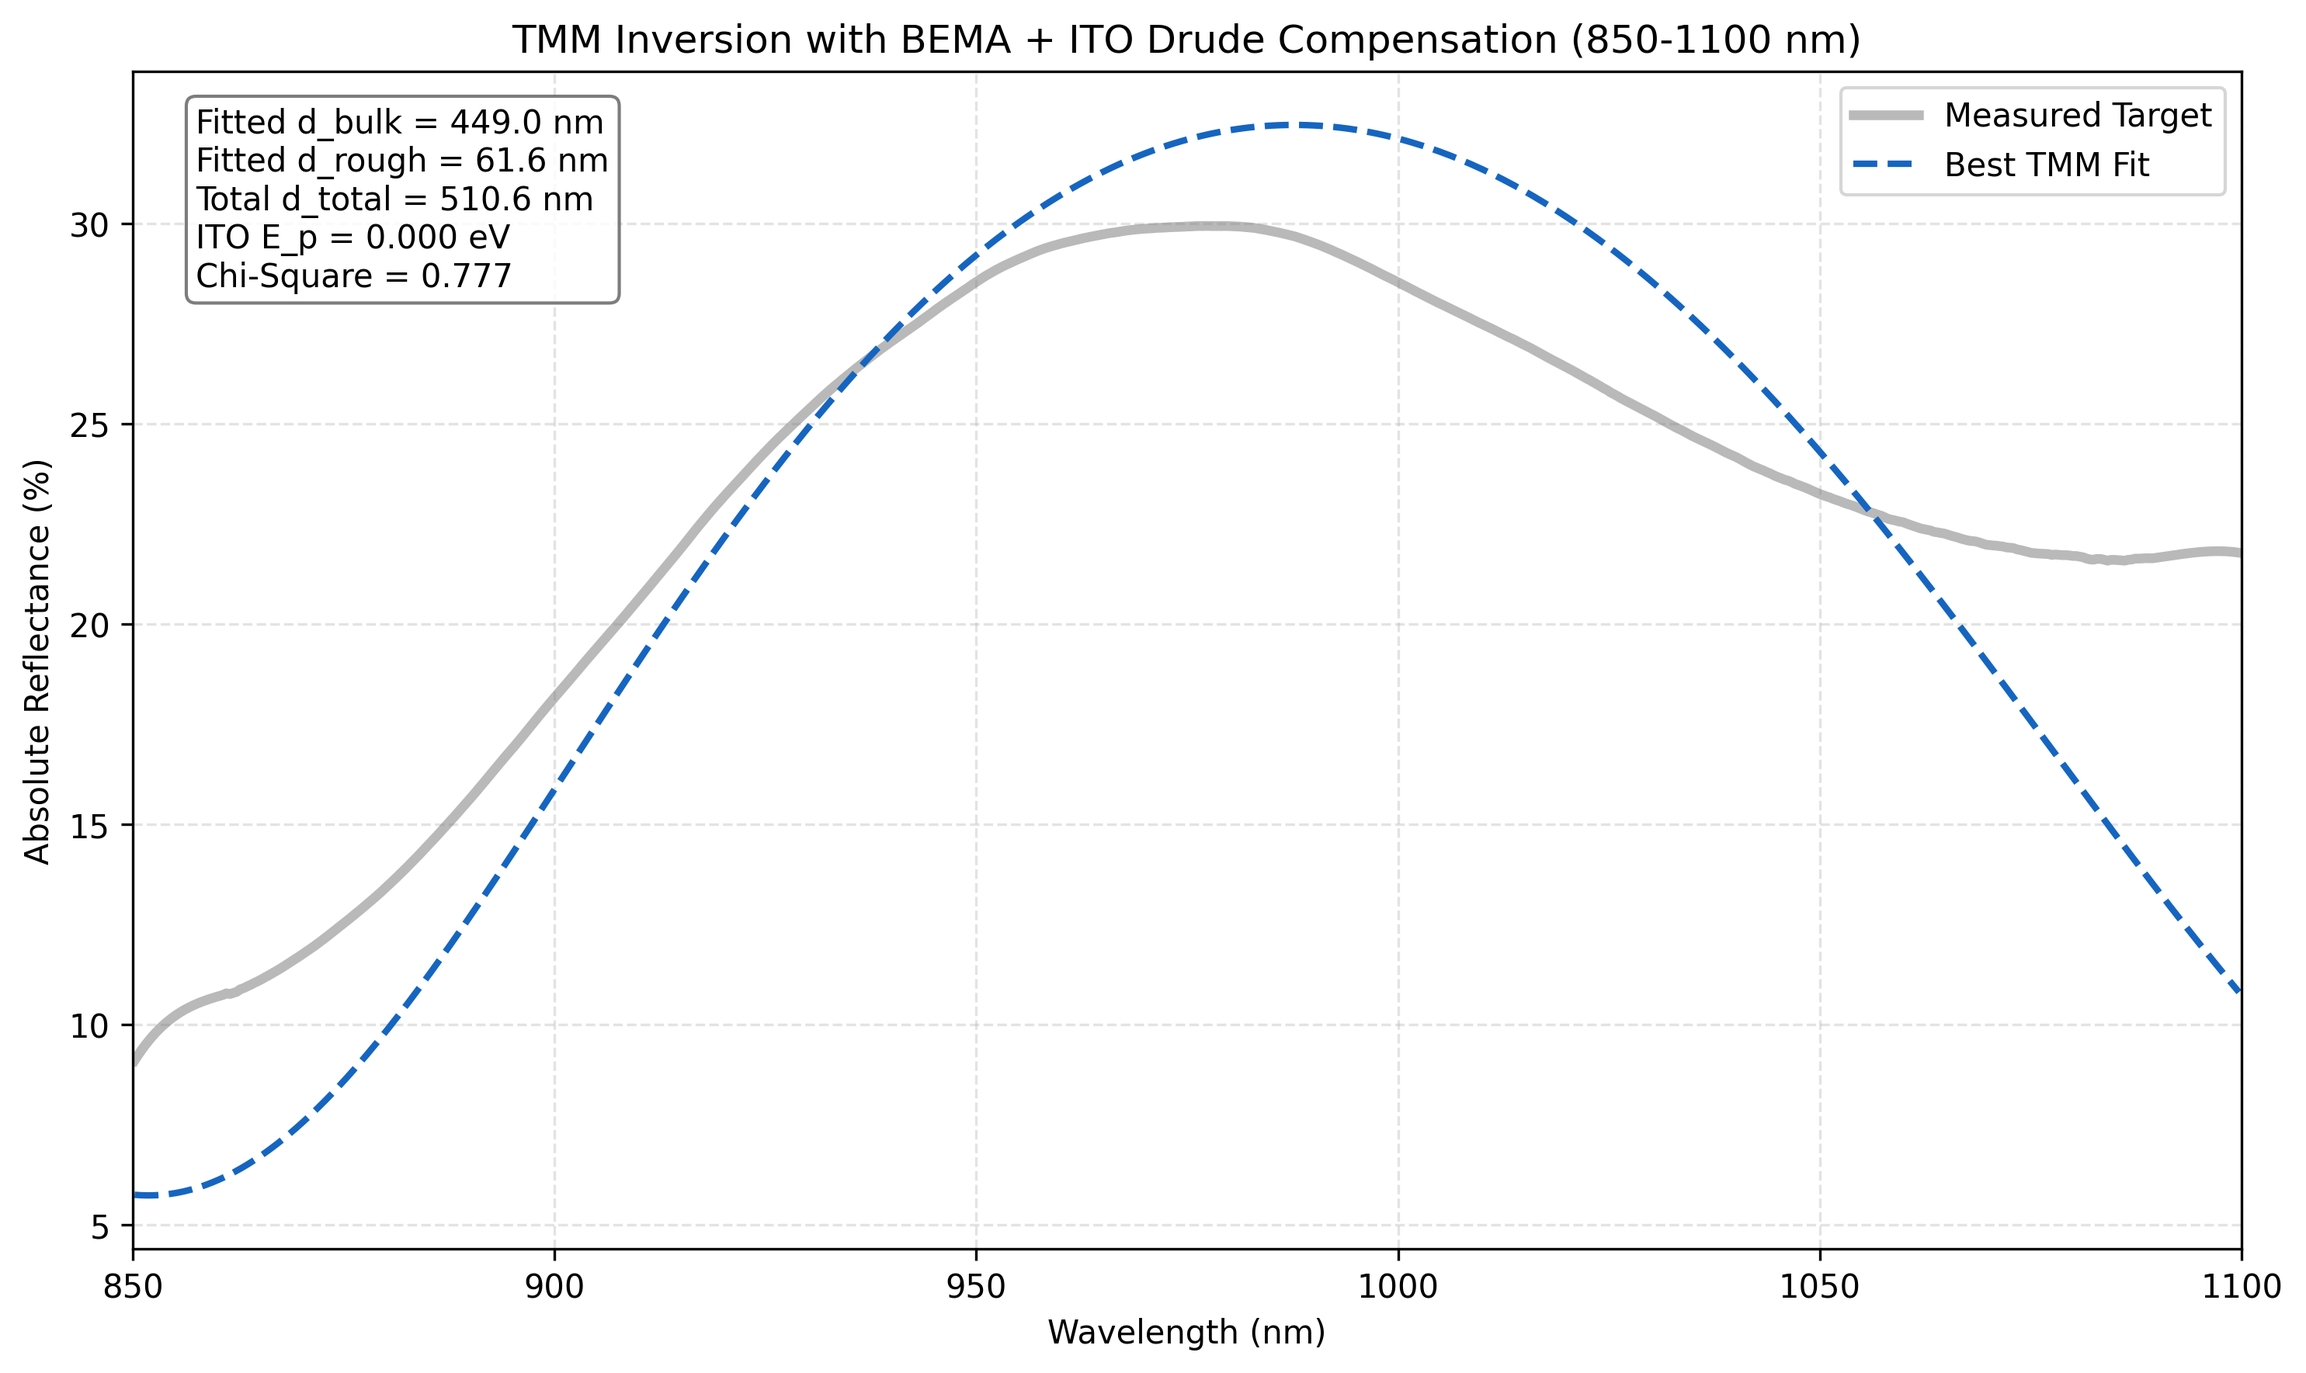
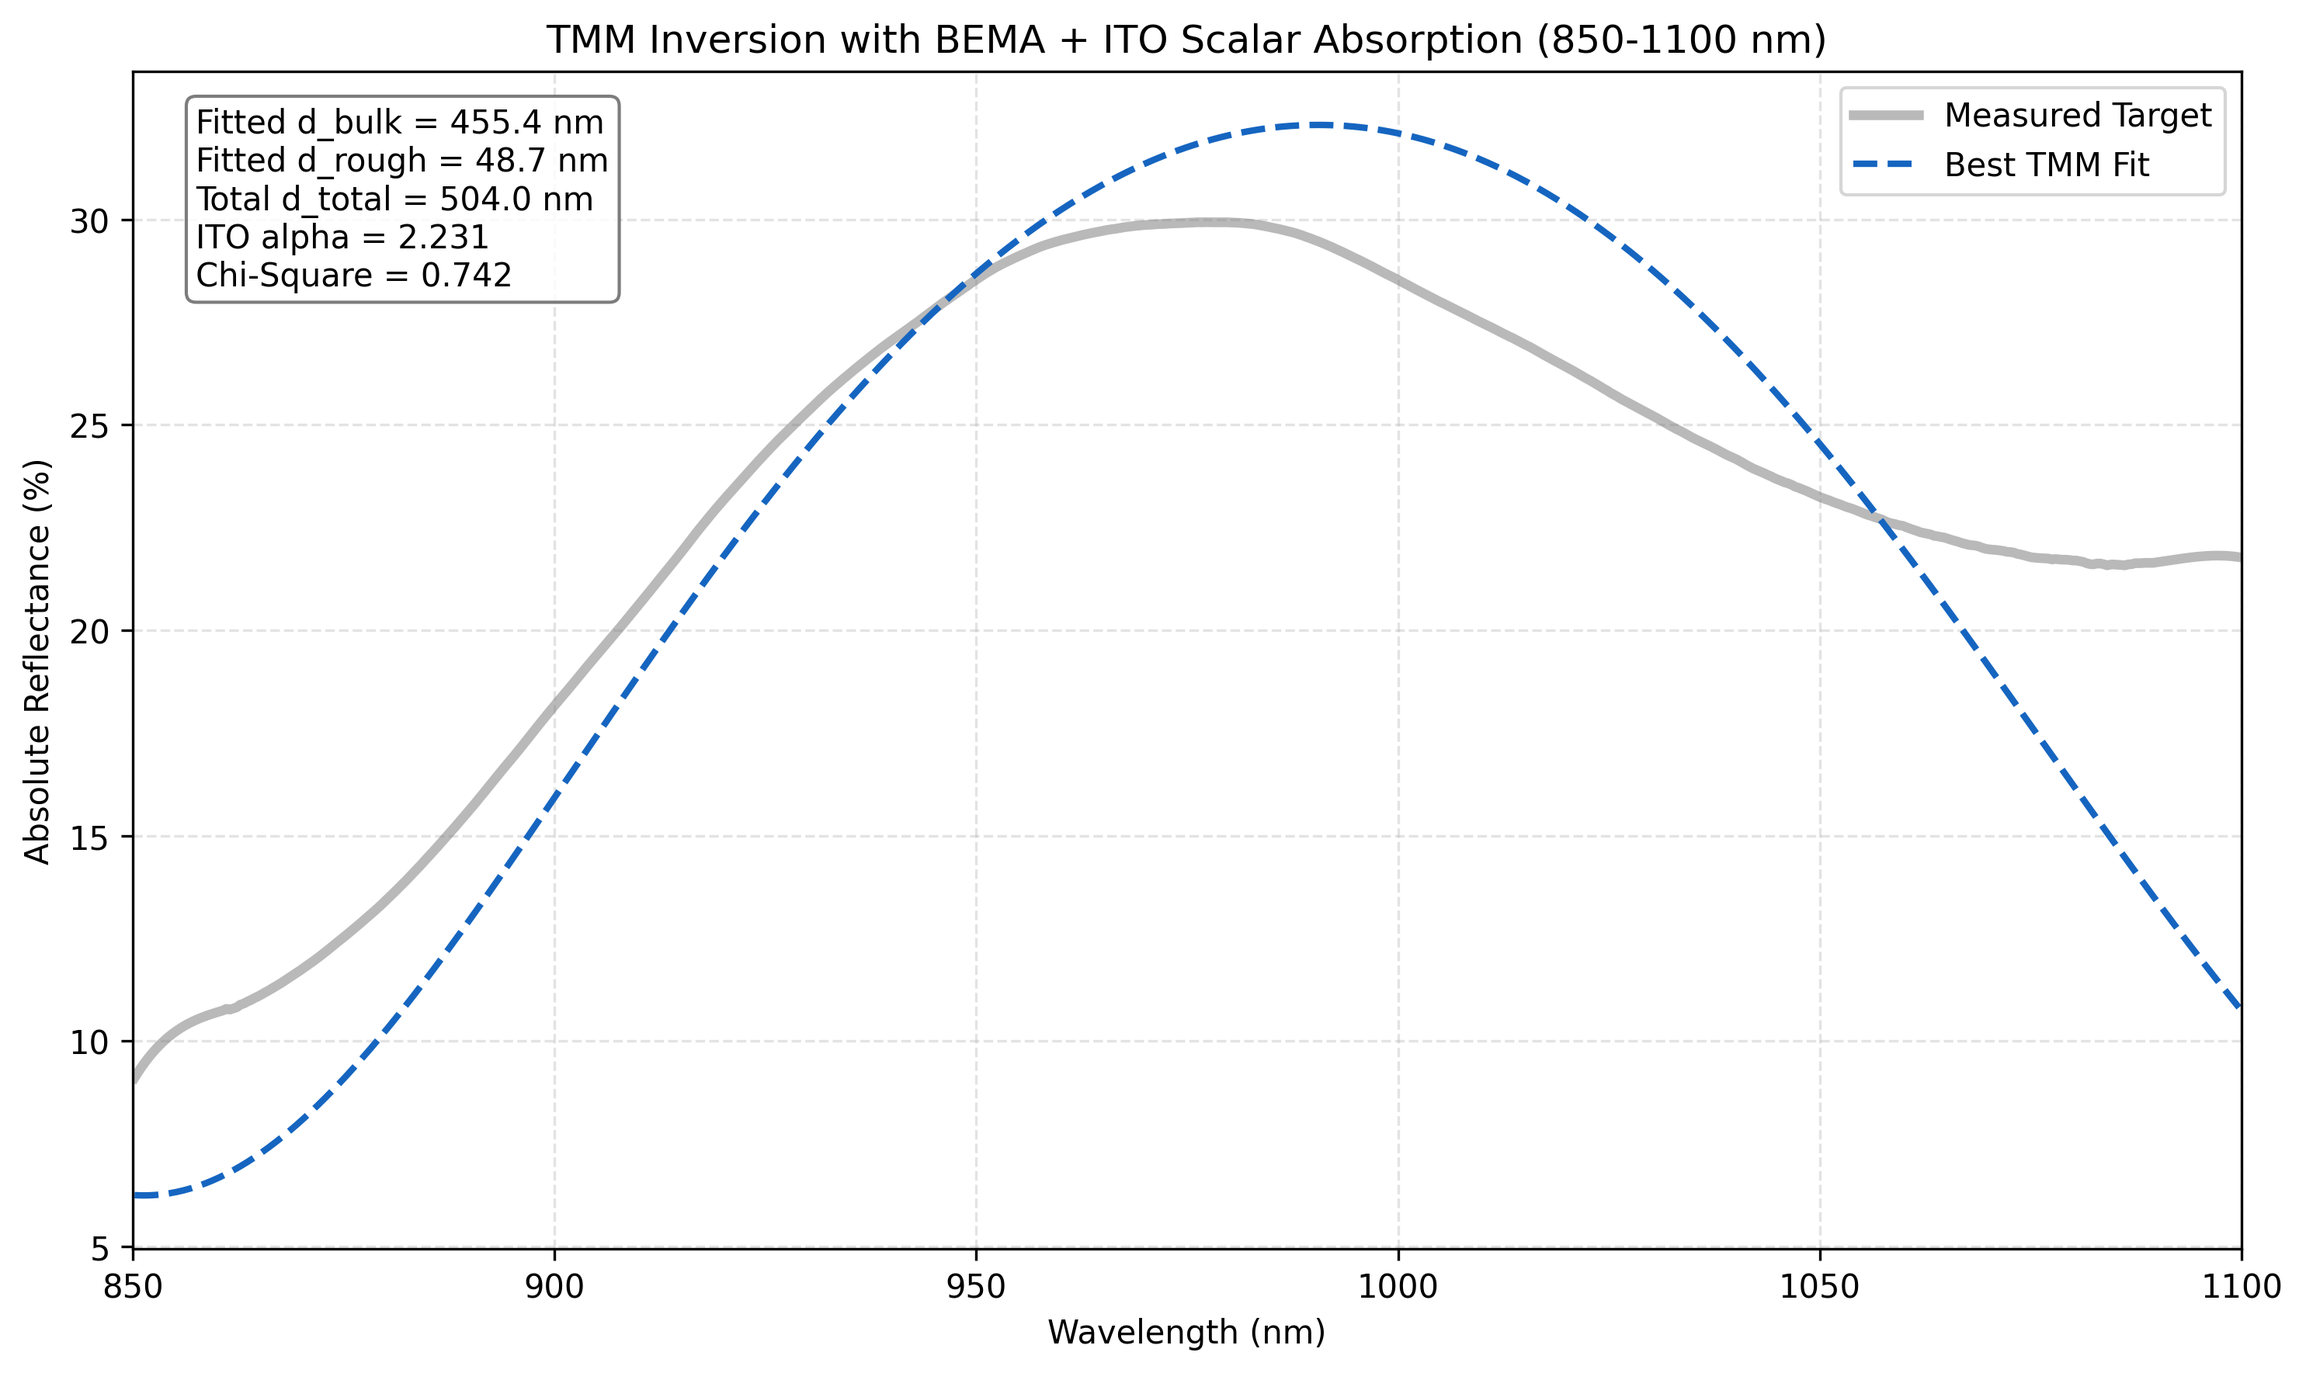
[Phase 02] 将ITO补偿重构为标量吸收三参数反演

diff --git a/src/scripts/step02_tmm_inversion.py b/src/scripts/step02_tmm_inversion.py
@@ -6,7 +6,7 @@
 模块划分：
 1. 目标曲线读取
 2. ITO 色散解析与插值
-3. ITO Drude 原位补偿
+3. ITO 标量吸收补偿
 4. PVK 外推 n-k 中间件加载与插值
 5. BEMA 表面粗糙度修正
 6. 厚玻璃非相干修正 + 相干薄膜 TMM
@@ -48,9 +48,9 @@ MAX_PVK_BULK_THICKNESS_NM = 650.0
 INITIAL_PVK_ROUGHNESS_THICKNESS_NM = 60.0
 MIN_PVK_ROUGHNESS_THICKNESS_NM = 0.0
 MAX_PVK_ROUGHNESS_THICKNESS_NM = 100.0
-INITIAL_ITO_EP_EV = 0.5
-MIN_ITO_EP_EV = 0.0
-MAX_ITO_EP_EV = 2.0
+INITIAL_ITO_ALPHA = 1.0
+MIN_ITO_ALPHA = 0.1
+MAX_ITO_ALPHA = 20.0
 
 
 def get_project_root() -> Path:
@@ -295,19 +295,10 @@ def build_ito_interpolator(wavelength_nm: np.ndarray, nk: np.ndarray) -> Callabl
     return get_ito_nk
 
 
-def apply_drude_correction(
-    base_nk: np.ndarray,
-    wavelength_nm: np.ndarray,
-    Ep: float,
-    Gamma: float = 0.1,
-) -> np.ndarray:
-    """对 ITO 基础复折射率施加原位 Drude 吸收补偿。"""
-    wavelength = np.asarray(wavelength_nm, dtype=np.float64)
-    energy_ev = 1240.0 / wavelength
-    epsilon_base = np.asarray(base_nk, dtype=np.complex128) ** 2
-    delta_epsilon = -(Ep**2) / (energy_ev**2 + 1j * Gamma * energy_ev)
-    epsilon_new = epsilon_base + delta_epsilon
-    return np.sqrt(epsilon_new)
+def apply_scalar_absorption_correction(base_nk: np.ndarray, alpha_ito: float) -> np.ndarray:
+    """锁定 ITO 实部 n，仅对虚部 k 施加标量放大。"""
+    base_nk_array = np.asarray(base_nk, dtype=np.complex128)
+    return np.real(base_nk_array) + 1j * (np.imag(base_nk_array) * alpha_ito)
 
 
 def load_pvk_dispersion(csv_path: Path) -> tuple[np.ndarray, np.ndarray, np.ndarray]:
@@ -371,7 +362,7 @@ def calc_bema_rough_nk(bulk_nk: np.ndarray) -> np.ndarray:
 def calc_macro_reflectance(
     d_bulk_nm: float,
     d_rough_nm: float,
-    ito_Ep: float,
+    alpha_ito: float,
     wavelength_nm: np.ndarray,
     get_ito_nk: Callable[[np.ndarray], np.ndarray],
     get_pvk_nk: Callable[[np.ndarray], np.ndarray],
@@ -394,7 +385,7 @@ def calc_macro_reflectance(
     """
     wavelength = np.asarray(wavelength_nm, dtype=float)
     ito_base_nk = get_ito_nk(wavelength)
-    ito_nk = apply_drude_correction(ito_base_nk, wavelength, ito_Ep)
+    ito_nk = apply_scalar_absorption_correction(ito_base_nk, alpha_ito)
     pvk_bulk_nk = get_pvk_nk(wavelength)
     pvk_rough_nk = calc_bema_rough_nk(pvk_bulk_nk)
 
@@ -437,8 +428,8 @@ def residual(
     """lmfit 残差函数。"""
     d_bulk_nm = params["d_bulk"].value
     d_rough_nm = params["d_rough"].value
-    ito_Ep = params["ito_Ep"].value
-    r_model = calc_macro_reflectance(d_bulk_nm, d_rough_nm, ito_Ep, wavelength_nm, get_ito_nk, get_pvk_nk)
+    alpha_ito = params["alpha_ito"].value
+    r_model = calc_macro_reflectance(d_bulk_nm, d_rough_nm, alpha_ito, wavelength_nm, get_ito_nk, get_pvk_nk)
     return r_model - r_target
 
 
@@ -449,7 +440,7 @@ def plot_fit_result(
     d_bulk_nm: float,
     d_rough_nm: float,
     d_total_nm: float,
-    ito_Ep: float,
+    alpha_ito: float,
     chisqr: float,
     output_path: Path,
 ) -> None:
@@ -477,7 +468,7 @@ def plot_fit_result(
         f"Fitted d_bulk = {d_bulk_nm:.1f} nm\n"
         f"Fitted d_rough = {d_rough_nm:.1f} nm\n"
         f"Total d_total = {d_total_nm:.1f} nm\n"
-        f"ITO E_p = {ito_Ep:.3f} eV\n"
+        f"ITO alpha = {alpha_ito:.3f}\n"
         f"Chi-Square = {chisqr:.3f}"
     )
     ax.text(
@@ -494,7 +485,7 @@ def plot_fit_result(
     ax.set_xlim(WAVELENGTH_MIN_NM, WAVELENGTH_MAX_NM)
     ax.set_xlabel("Wavelength (nm)")
     ax.set_ylabel("Absolute Reflectance (%)")
-    ax.set_title("TMM Inversion with BEMA + ITO Drude Compensation (850-1100 nm)")
+    ax.set_title("TMM Inversion with BEMA + ITO Scalar Absorption (850-1100 nm)")
     ax.grid(True, linestyle="--", alpha=0.35)
     ax.legend()
 
@@ -537,10 +528,10 @@ def main() -> None:
         max=MAX_PVK_ROUGHNESS_THICKNESS_NM,
     )
     params.add(
-        "ito_Ep",
-        value=INITIAL_ITO_EP_EV,
-        min=MIN_ITO_EP_EV,
-        max=MAX_ITO_EP_EV,
+        "alpha_ito",
+        value=INITIAL_ITO_ALPHA,
+        min=MIN_ITO_ALPHA,
+        max=MAX_ITO_ALPHA,
     )
 
     result = minimize(
@@ -552,9 +543,9 @@ def main() -> None:
 
     d_bulk_best_nm = float(result.params["d_bulk"].value)
     d_rough_best_nm = float(result.params["d_rough"].value)
-    ito_Ep_best = float(result.params["ito_Ep"].value)
+    alpha_ito_best = float(result.params["alpha_ito"].value)
     d_total_best_nm = d_bulk_best_nm + d_rough_best_nm
-    r_best_fit = calc_macro_reflectance(d_bulk_best_nm, d_rough_best_nm, ito_Ep_best, wavelength_nm, get_ito_nk, get_pvk_nk)
+    r_best_fit = calc_macro_reflectance(d_bulk_best_nm, d_rough_best_nm, alpha_ito_best, wavelength_nm, get_ito_nk, get_pvk_nk)
 
     if np.any(~np.isfinite(r_best_fit)):
         raise ValueError("最佳拟合反射率中出现 NaN 或 Inf，说明模型数值计算失败。")
@@ -566,7 +557,7 @@ def main() -> None:
         d_bulk_nm=d_bulk_best_nm,
         d_rough_nm=d_rough_best_nm,
         d_total_nm=d_total_best_nm,
-        ito_Ep=ito_Ep_best,
+        alpha_ito=alpha_ito_best,
         chisqr=float(result.chisqr),
         output_path=output_path,
     )
@@ -577,7 +568,7 @@ def main() -> None:
     print(f"Fitted d_bulk = {d_bulk_best_nm:.3f} nm")
     print(f"Fitted d_rough = {d_rough_best_nm:.3f} nm")
     print(f"Fitted d_total = {d_total_best_nm:.3f} nm")
-    print(f"ITO E_p = {ito_Ep_best:.6f} eV")
+    print(f"ITO alpha = {alpha_ito_best:.6f}")
     print(f"Chi-Square = {float(result.chisqr):.6f}")
     print(f"拟合状态: success={result.success}, nfev={result.nfev}")
 

diff --git a/docs/PROJECT_STATE.md b/docs/PROJECT_STATE.md
@@ -10,7 +10,7 @@
 - 当前可用能力：
   - 已有 `step01_absolute_calibration.py`，可将样品与银镜原始计数转换为绝对反射率
   - 已有 `step01b_cauchy_extrapolation.py`，可基于 [LIT-0001] 的 `ITO/CsFAPI` 数字化折射率曲线生成 `750-1100 nm` 的 CsFAPI 扩展 `n-k` 中间件
-  - 已有 `step02_tmm_inversion.py`，可读取目标反射率、ITO 色散和 CsFAPI 扩展 `n-k` 中间件，执行包含 50/50 BEMA 粗糙度与 ITO Drude 吸收补偿的三参数 `d_bulk + d_rough + ito_Ep` 联合反演
+  - 已有 `step02_tmm_inversion.py`，可读取目标反射率、ITO 色散和 CsFAPI 扩展 `n-k` 中间件，执行包含 50/50 BEMA 粗糙度与 ITO 标量吸收补偿的三参数 `d_bulk + d_rough + alpha_ito` 联合反演
   - 已有 `diagnostics_shape_mismatch.py`，可在独立沙盒中对 ITO 近红外吸收、厚度不均匀性和 PVK 色散斜率做形状畸变诊断
   - 已有 `step02_digitize_fapi_optical_constants.py`，可从 `LIT-0001` 的 Fig. 2 原图数字化提取 FAPI 的 `n/κ` 曲线并输出 QA 图
   - 已有 `step02_digitize_csfapi_optical_constants.py`，可从 `LIT-0001` 的 Fig. 3 原图数字化提取 CsFAPI 的 `n/κ` 曲线并输出 QA 图
@@ -146,7 +146,7 @@ TMM-interference-spectrum/
 ### 4.3 `step02_tmm_inversion.py`
 
 - 文件位置：`src/scripts/step02_tmm_inversion.py`
-- 主要职责：读取 `step01` 输出的目标反射率、ITO 色散和 `step01b` 生成的 CsFAPI 扩展 `n-k` 中间件，执行包含 BEMA 表面粗糙度修正与 ITO Drude 原位补偿的三参数联合反演
+- 主要职责：读取 `step01` 输出的目标反射率、ITO 色散和 `step01b` 生成的 CsFAPI 扩展 `n-k` 中间件，执行包含 BEMA 表面粗糙度修正与 ITO 标量吸收补偿的三参数联合反演
 
 输入：
 - `data/processed/target_reflectance.csv`
@@ -170,10 +170,10 @@ TMM-interference-spectrum/
 - SAM 厚度固定：`2 nm`
 - PVK 块体厚度 `d_bulk` 搜索范围：`400-650 nm`
 - PVK 表面粗糙层厚度 `d_rough` 搜索范围：`0-100 nm`
-- ITO 等离子体能量修正 `ito_Ep` 搜索范围：`0-2 eV`
+- ITO 吸收缩放系数 `alpha_ito` 搜索范围：`0.1-20.0`
 - PVK 采用 `step01b` 生成的 CsFAPI 扩展 `n-k` 中间件，并通过线性插值映射到目标波长网格
 - 粗糙层采用 `50% PVK + 50% Air` 的 Bruggeman EMA 有效介质模型
-- ITO 在进入 TMM 之前，先对基础 `n-k` 施加原位 Drude 吸收补偿
+- ITO 在进入 TMM 之前，锁定实部 `n` 不变，仅对虚部 `k` 施加标量吸收缩放
 - 相干层堆栈为：`Glass -> ITO -> NiOx -> SAM -> PVK_Bulk -> PVK_Roughness -> Air`
 
 核心处理流程：
@@ -181,7 +181,7 @@ TMM-interference-spectrum/
 - 读取 `step01b` 生成的 CsFAPI 扩展 `n-k` 表
 - 解析 ITO 的 `e1/e2` 数据并转为 `n + ik`
 - 构建 ITO 复折射率插值器
-- 根据 `ito_Ep` 对 ITO 基础复折射率施加 Drude 原位补偿
+- 根据 `alpha_ito` 对 ITO 的消光系数 `k` 做标量吸收放大
 - 构建 PVK 复折射率插值器
 - 根据块体 PVK 复介电常数计算 50/50 BEMA 粗糙层复折射率
 - 计算宏观反射率：
@@ -259,7 +259,7 @@ resources/digitized/phase02_fig3_csfapi_optical_constants_digitized.csv
 data/processed/target_reflectance.csv
 data/processed/CsFAPI_nk_extended.csv
 resources/ITO_20 Ohm_105 nm_e1e2.mat
-    -> step02_tmm_inversion.py (CsFAPI 扩展 n-k -> ITO Drude 补偿 -> BEMA 粗糙层修正 -> d_bulk + d_rough + ito_Ep 三参数反演)
+    -> step02_tmm_inversion.py (CsFAPI 扩展 n-k -> ITO 标量吸收补偿 -> BEMA 粗糙层修正 -> d_bulk + d_rough + alpha_ito 三参数反演)
     -> results/figures/tmm_inversion_result.png
 
 data/processed/target_reflectance.csv
@@ -283,9 +283,9 @@ reference/Khan.../images/885e29d3...
 
 1. `step01` 负责把原始计数校准成可用于物理建模的绝对反射率
 2. `step01b` 把 [LIT-0001] 数字化 CsFAPI 曲线转换成标准近红外 `n-k` 中间件
-3. `step02` 在消费标准 `n-k` 中间件后，先对 ITO 施加 Drude 原位补偿，再通过 50/50 BEMA 将 PVK-Air 表面粗糙度折算为有效介质层
-4. 当前脚本链已经具备“测量数据 -> 标准中间数据 + 文献外推中间数据 -> ITO Drude + BEMA 修正 TMM 三参数反演图表”的最小闭环
-5. 诊断沙盒指出的 ITO 近红外吸收缺项，现已被并入主流程做原位吸收补偿
+3. `step02` 在消费标准 `n-k` 中间件后，先对 ITO 的消光系数 `k` 做标量吸收补偿，再通过 50/50 BEMA 将 PVK-Air 表面粗糙度折算为有效介质层
+4. 当前脚本链已经具备“测量数据 -> 标准中间数据 + 文献外推中间数据 -> ITO 标量吸收 + BEMA 修正 TMM 三参数反演图表”的最小闭环
+5. 诊断沙盒指出的 ITO 近红外吸收缺项，现已被并入主流程做解耦的标量吸收补偿
 
 ## 6. Key Physical / Numerical Assumptions
 
@@ -299,8 +299,8 @@ reference/Khan.../images/885e29d3...
 - `750-1100 nm` 内强制采用 `k = 0`
 - `1000-1100 nm` 属于超出原始椭偏测量窗口的模型外推区
 - 粗糙层采用 `50% PVK + 50% Air` 的 BEMA 有效介质
-- ITO 的额外自由载流子吸收以原位 Drude 补偿参数 `ito_Ep` 表示
-- 反演当前同时拟合 `d_bulk`、`d_rough` 与 `ito_Ep` 三个参数
+- ITO 的额外吸收以锁定实部 `n` 的标量参数 `alpha_ito` 表示
+- 反演当前同时拟合 `d_bulk`、`d_rough` 与 `alpha_ito` 三个参数
 
 这些假设是理解结果与后续扩展的关键锚点；若后续有改动，必须同步更新本文件。
 
@@ -382,8 +382,8 @@ reference/Khan.../images/885e29d3...
   - `diagnostics_shape_mismatch.py` 的 Probe A 显示，ITO 近红外吸收增强可将形状误差显著压低
   - 这说明当前主流程的 ITO 吸收建模仍不足，是下一轮主流程升级的优先方向
 - 当前状态：
-  - 已通过 ITO Drude 原位补偿并入 `step02_tmm_inversion.py`
-  - 底层基底吸收修正已在物理机制上形成闭环，但当前数据集是否会收敛到显著非零 `ito_Ep` 仍需结合拟合结果继续评估
+  - 已通过 ITO 标量吸收补偿并入 `step02_tmm_inversion.py`
+  - 当前主流程可直接检验“长波端畸变是否完全由底层吸收缺失主导”
 
 ## 8. Architecture Risks
 
@@ -436,8 +436,8 @@ reference/Khan.../images/885e29d3...
 ### 8.7 ITO 吸收修正已被诊断为关键缺项
 
 - 独立诊断表明，ITO 近红外吸收增强比厚度不均匀性和 PVK 色散斜率修正更能同时修复长波托平与整体形状
-- 这也是当前主流程优先引入 ITO Drude 原位补偿，而未先固化厚度高斯平均或 PVK Cauchy `B` 缩放的原因
-- 后续仍需关注 `ito_Ep` 是否与 `d_bulk` / `d_rough` 存在新的参数相关性
+- 这也是当前主流程优先引入 ITO 标量吸收补偿，而未先固化厚度高斯平均或 PVK Cauchy `B` 缩放的原因
+- 后续仍需关注 `alpha_ito` 是否与 `d_bulk` / `d_rough` 存在新的参数相关性
 
 ### 8.8 结果文件命名尚未 Phase 化
 
@@ -449,22 +449,22 @@ reference/Khan.../images/885e29d3...
 - 更新时间：`2026-04-06`
 - 当前 Phase：`Phase 02`
 - 本次新增/修改：
-  - 在 `step02_tmm_inversion.py` 中新增 ITO Drude 原位补偿
-  - 将主流程从 BEMA 双参数反演升级为 `d_bulk + d_rough + ito_Ep` 三参数联合反演
-  - 更新 `PROJECT_STATE.md` 以反映 Drude 补偿并入主流程
+  - 在 `step02_tmm_inversion.py` 中以 `alpha_ito` 新增 ITO 标量吸收补偿
+  - 将主流程从 BEMA 双参数反演升级为 `d_bulk + d_rough + alpha_ito` 三参数联合反演
+  - 更新 `PROJECT_STATE.md` 以反映标量吸收补偿并入主流程
 - 已验证结论：
   - ITO 近红外吸收增强是当前形状畸变的主导修复机制
-  - 主流程现已具备基于 `ito_Ep` 的底层基底吸收修正闭环
+  - 主流程现已具备基于 `alpha_ito` 的底层基底吸收修正闭环
 - 仍待验证：
   - `1000-1100 nm` 外推段的物理可信度仍需后续用原始数据或独立测量交叉验证
-  - `d_bulk`、`d_rough` 与 `ito_Ep` 的相关性是否会影响最终物理解读，还需后续继续评估
+  - `d_bulk`、`d_rough` 与 `alpha_ito` 的相关性是否会影响最终物理解读，还需后续继续评估
 
 ## 10. Recommended Next Actions
 
 建议后续优先处理以下事项：
 
 1. 建立 `data/raw/`，并把 `test_data/` 中实际原始测量 CSV 迁移到规范目录
-2. 创建结构化反演结果输出文件，记录 `d_bulk`、`d_rough`、`ito_Ep`、`chi-square` 与外推参数 `A/B`
+2. 创建结构化反演结果输出文件，记录 `d_bulk`、`d_rough`、`alpha_ito`、`chi-square` 与外推参数 `A/B`
 3. 将 `step01`/`step01b`/`step02` 中可复用逻辑下沉到 `src/core/`
 4. 建立 `docs/RESOURCE_INDEX.md`，说明 ITO、银镜基准、论文资料与数字化资源的来源和格式
 5. 建立 `README.md`，补齐项目运行入口、依赖安装和 Phase 概览
